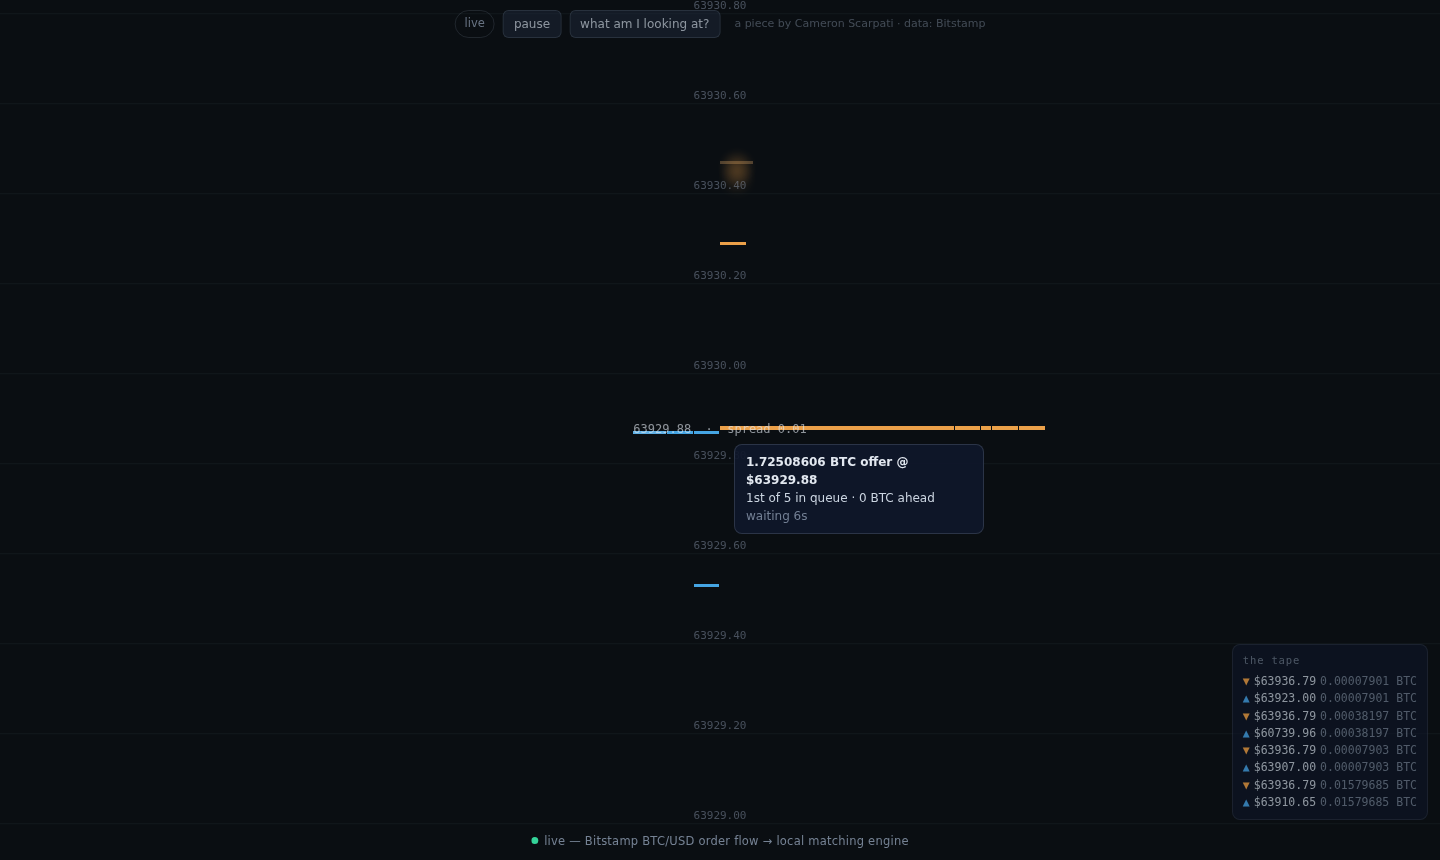
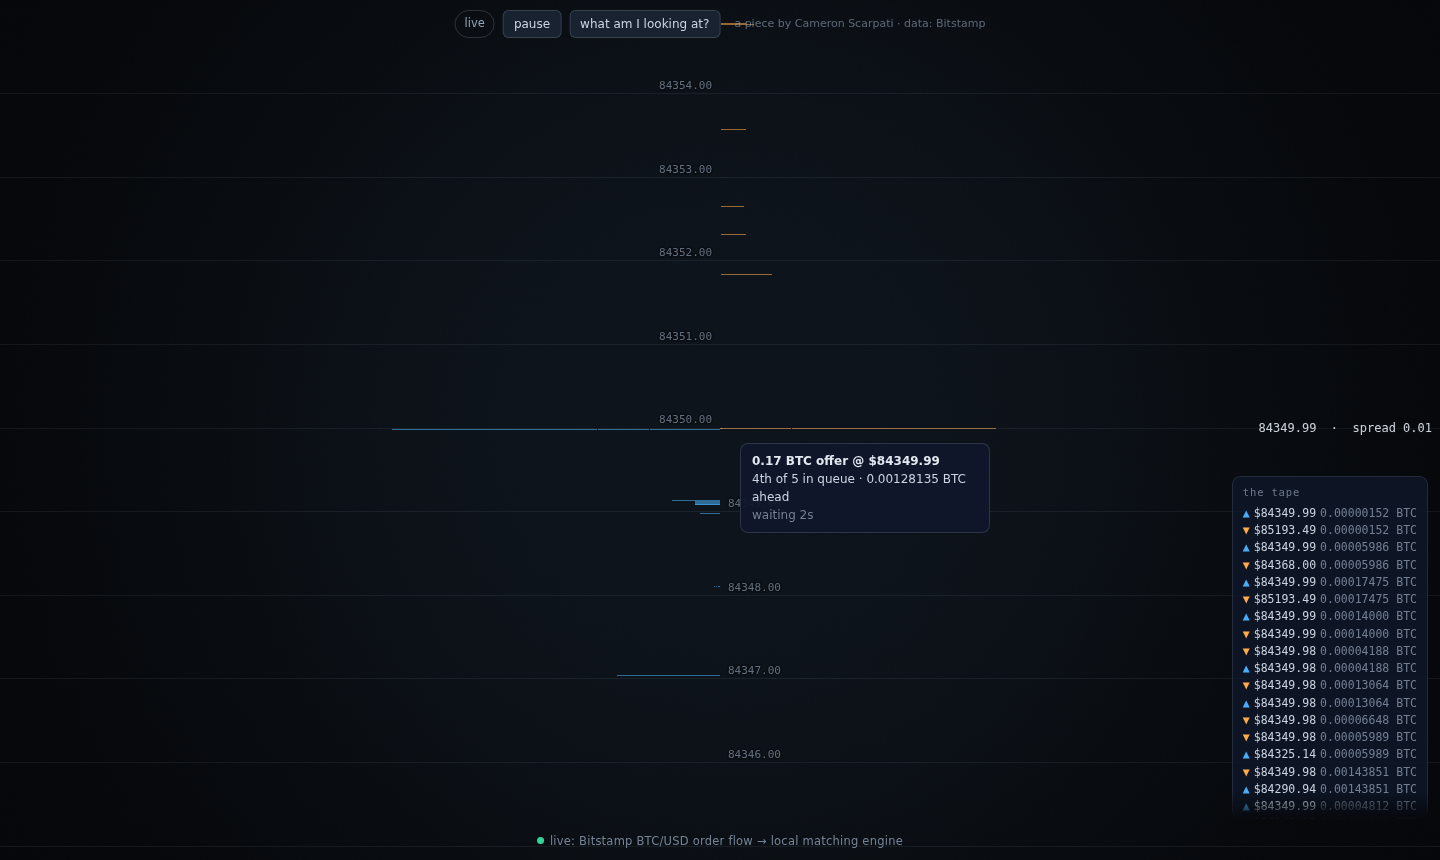
Recapture the live inspector screenshot
The old frame predates the removal of the event flare and still showed
the previous provenance label. The new one is the current build on the
live Bitstamp feed (through tools/dev-relay.mjs), hovering the best
offer; the alt text and caption now describe the order it shows.

Claude-Session: https://claude.ai/code/session_01QZztmN3L85hZ3ZbSqNAAvX

diff --git a/README.md b/README.md
@@ -15,11 +15,12 @@ built for this piece.
 A piece by **Cameron Scarpati**: a view of the beauty living inside the order
 book.
 
-![Live mode: hovering the best offer reveals a real 1.7 BTC order, first in
-queue, six seconds old, on a thin post-selloff night when single orders were
-events](docs/images/live-inspector.png)
-*Live mode on a thin night. The inspector is reading a real order: 1.73 BTC
-offered at $63,929.88, first of five in its queue, waiting six seconds.*
+![Live mode: hovering the best offer reveals a real 0.17 BTC order at
+$84,349.99, fourth of five in its queue behind 0.00128135 BTC, two seconds
+old](docs/images/live-inspector.png)
+*Live mode. The inspector is reading a real order: 0.17 BTC offered at
+$84,349.99, fourth of five in its queue with 0.00128135 BTC ahead of it,
+waiting two seconds.*
 
 ## The queue, made visible
 
